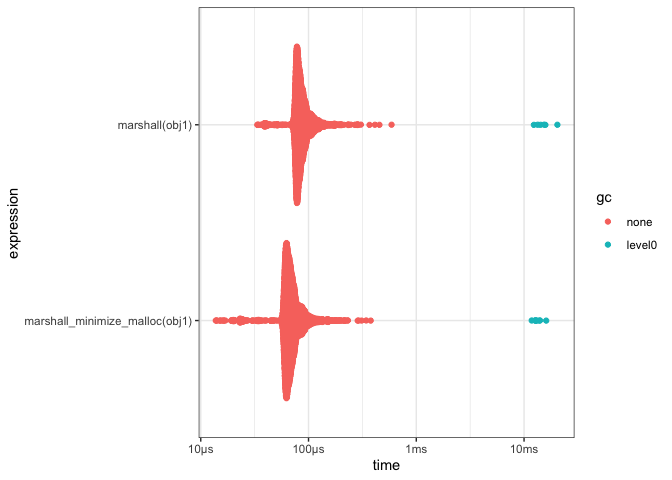
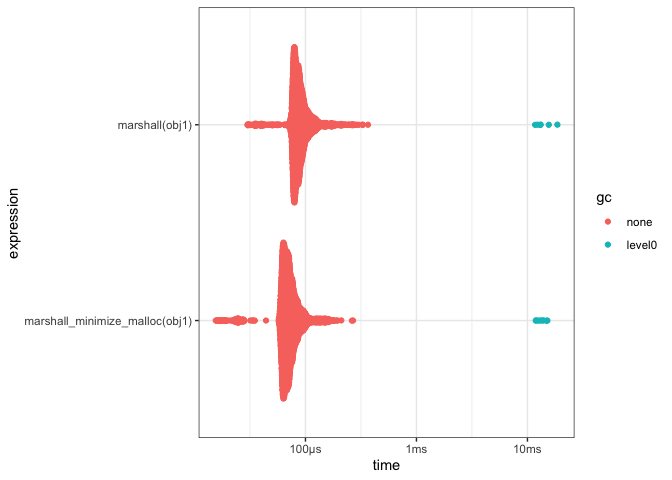
doc update

diff --git a/README.md b/README.md
@@ -25,6 +25,17 @@ If you want a rock solid version of this package that already exists,
 use
 [RApiSerialize](https://cran.r-project.org/web/packages/RApiSerialize/index.html).
 
+## What’s in the box
+
+  - `marshall()`/`unmarshall()` are direct analogues for
+    `base::serialize()` and `base::unserialize()`
+  - `calc_marshalled_size()` calculates the exact size of the serialized
+    representation of an object.
+  - `marshall_minimize_malloc()` is a modified version of `marshall()`
+    which minimises memory allocations by pre-calculating the final size
+    of the serialized representation. It speeds up the serialization
+    process for larger objects.
+
 ## Installation
 
 You can install from
@@ -158,10 +169,10 @@ res %>%
 
 | expression                   |  median | itr/sec |  MB |   GB/s |
 | :--------------------------- | ------: | ------: | --: | -----: |
-| calc\_marshalled\_size(obj1) | 11.38µs |   87372 | 114 | 9787.1 |
-| calc\_marshalled\_size(obj2) |  6.64µs |  146849 |   5 |  735.1 |
-| calc\_marshalled\_size(obj3) |  7.36µs |  132688 |  38 | 5042.0 |
-| calc\_marshalled\_size(obj4) |  4.38µs |  229417 |   0 |    0.0 |
+| calc\_marshalled\_size(obj1) | 11.55µs |   84881 | 114 | 9641.3 |
+| calc\_marshalled\_size(obj2) |  6.66µs |  146996 |   5 |  733.0 |
+| calc\_marshalled\_size(obj3) |  7.66µs |  127831 |  38 | 4846.5 |
+| calc\_marshalled\_size(obj4) |  3.22µs |  251210 |   0 |    0.0 |
 
 Maximum possible throughput of serialization
 
@@ -194,8 +205,8 @@ res %>%
 
 | expression                       | median |  itr/sec |
 | :------------------------------- | -----: | -------: |
-| marshall(obj1)                   | 83.2µs | 11287.57 |
-| marshall\_minimize\_malloc(obj1) | 67.1µs | 13964.31 |
+| marshall(obj1)                   | 85.9µs | 10960.12 |
+| marshall\_minimize\_malloc(obj1) | 69.6µs | 13612.89 |
 
 ``` r
 
@@ -223,10 +234,10 @@ res %>%
   knitr::kable()
 ```
 
-| expression                       |  median |   itr/sec |
-| :------------------------------- | ------: | --------: |
-| marshall(obj2)                   | 10.28ms |  86.59292 |
-| marshall\_minimize\_malloc(obj2) |  2.13ms | 441.35227 |
+| expression                       | median |   itr/sec |
+| :------------------------------- | -----: | --------: |
+| marshall(obj2)                   | 9.79ms |  91.68964 |
+| marshall\_minimize\_malloc(obj2) | 2.29ms | 379.68270 |
 
 ``` r
 
